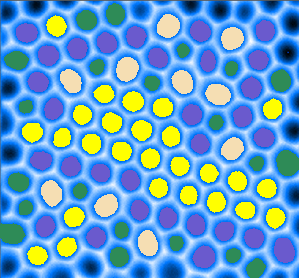
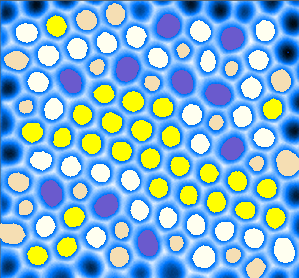
fixed problems

diff --git a/test/test_print_contour.py b/test/test_print_contour.py
@@ -12,9 +12,9 @@ from RingFactoryMaker import getRingFactory
 
 def print_color(ring, color):
     if ring.colored == False:
+        ring.colored = True
         pts = rf.contour_list[ring.id]
         cv2.fillConvexPoly(image, pts, color.value)
-        ring.colored = True
 
 if __name__ == '__main__':
     image_path = 'data/raw.png'
@@ -22,24 +22,33 @@ if __name__ == '__main__':
     rf = getRingFactory(image)
 
     for ring in rf.ring_list:
+
         if ring.sides == 7:
+            print_color(ring, Color.SLATEBLUE)
+
+            for nnRing in rf.findRingsByID(rf.nearestNeighbor(ring.id)):
+                if nnRing.sides == 6:
+                    print_color(nnRing, Color.IVORY)
+
+        if ring.sides == 5:
             print_color(ring, Color.WHEAT)
 
             for nnRing in rf.findRingsByID(rf.nearestNeighbor(ring.id)):
                 if nnRing.sides == 6:
-                    print_color(nnRing, Color.SLATEBLUE)
-
-        if ring.sides == 5:
-            print_color(ring, Color.SEAGREEN)
-
-            for nnRing in rf.findRingsByID(rf.nearestNeighbor(ring.id)):
-                if nnRing.sides == 6:
-                    print_color(nnRing, Color.SLATEBLUE)
-            
+                    print_color(nnRing, Color.IVORY)
+                
+                
         if ring.sides == 6:
-            print_color(ring, Color.YELLOW)
-            
+            flag = True
+            for nnRing in rf.findRingsByID(rf.nearestNeighbor(ring.id)):
+                if nnRing.sides != 6:
+                    flag = False
+            if flag:
+                print_color(ring, Color.YELLOW)
+        
+        cv2.putText(image, str(ring.id), ring.position, cv2.FONT_HERSHEY_SIMPLEX, 0.4, Color.RED.value)
+         
     cv2.imshow("pic", image)
     cv2.waitKey()
     cv2.destroyAllWindows()
-    cv2.imwrite('readme.assert/bordor1.png', image)
+    # cv2.imwrite('readme.assert/repaired_bordor.png', image)

diff --git a/test/rf_contour_pos_accord_test.py b/test/rf_contour_pos_accord_test.py
@@ -1,0 +1,33 @@
+# rf_contour_pos_accord_test.py by CoccaGuo at 2021/09/29 16:20
+
+import sys
+sys.path.append('./')
+import cv2
+import random
+import numpy as np
+from DataProcessor import *
+from ContourDetecter import *
+from utils import Color
+from RingFactoryMaker import getRingFactory
+
+
+def print_color(ring, color):
+    if ring.colored == False:
+        ring.colored = True
+        pts = rf.contour_list[ring.id]
+        cv2.fillConvexPoly(image, pts, color.value)
+
+if __name__ == '__main__':
+    image_path = 'data/raw.png'
+    image = cv2.imread(image_path)
+    rf = getRingFactory(image)
+
+    for ring in random.choices(rf.ring_list, k=10):
+        print_color(ring, Color.BISQUE)
+        cv2.putText(image, str(ring.id), ring.position, cv2.FONT_HERSHEY_SIMPLEX, 0.4, Color.RED.value)
+    
+    cv2.imshow("pic", image)
+    cv2.waitKey()
+    cv2.destroyAllWindows()
+    cv2.imwrite('readme.assert/rf_contour_pos_accord_check.png', image) 
+

diff --git a/RingFactoryMaker.py b/RingFactoryMaker.py
@@ -7,12 +7,12 @@ from RingFactory import RingFactory
 def getRingFactory(image):
     binarized = binarize(image)
     contour = contour_detect(binarized)
-    center_list, con_list = contour_iterator(contour)
+    center_list = contour_iterator(contour)
     
     data = stat_distance(center_list)
     refLength = maxValueDicider(data)
     numberList = nearestCounter(center_list, refLength)
 
     rf = RingFactory(center_list, numberList, refLength)
-    rf.contour_list = con_list
+    rf.contour_list = contour
     return rf

diff --git a/test/test_neighbor.py b/test/test_neighbor.py
@@ -20,7 +20,8 @@ if __name__ == '__main__':
     numberList = nearestCounter(center_list, refLength)
 
     rf = RingFactory(center_list, numberList, refLength)
-    selected_rings = random.choices(rf.ring_list, k=4) # show 3 rings and their neighbor
+    # selected_rings = random.choices(rf.ring_list, k=4) # show 3 rings and their neighbor
+    selected_rings = rf.findRingsByID([75])
     for ring in selected_rings:
         print(ring.position)
         cv2.circle(image, ring.position, 2, Color.RED.value, 4)

diff --git a/ContourDetecter.py b/ContourDetecter.py
@@ -31,14 +31,12 @@ def calc_center(contour_item):
         y += i[0][1]
     x_c = int(x/len(contour_item))
     y_c = int(y/len(contour_item))
-    return (x_c, y_c), contour_item
+    return (x_c, y_c)
 
 
 def contour_iterator(contour):
     _list = []
-    _con_list = []
     for item in contour:
-        point, con = calc_center(item)
+        point = calc_center(item)
         _list.append(point)
-        _con_list.append(con)
-    return _list, _con_list
+    return _list

diff --git a/utils.py b/utils.py
@@ -23,6 +23,7 @@ class Color(Enum):
     YELLOW = (0, 255, 255)
     WHEAT = (179, 222, 245)
     PURPLE = (240, 32, 160)
+    IVORY = (240, 255, 255)
     WHITE = (255, 255, 255)
     BLACK = (0, 0, 0)
 

diff --git a/ColorBlender.py b/ColorBlender.py
@@ -1,0 +1,3 @@
+# ColorBlender.py by CoccaGuo at 2021/09/29 16:44
+
+import cv2
